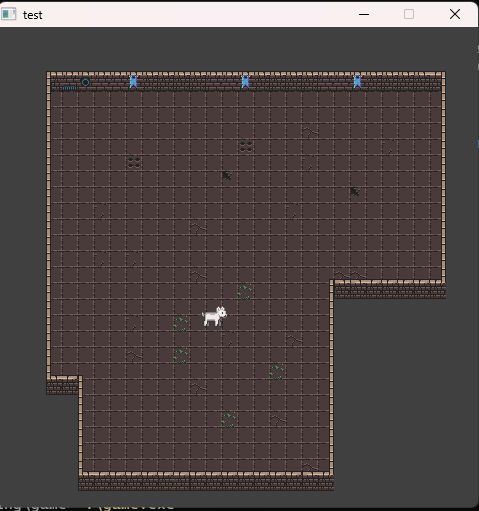
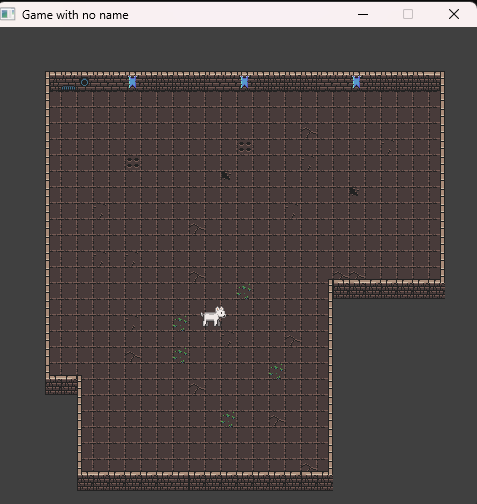
update the screanshot

diff --git a/main.c b/main.c
@@ -25,7 +25,7 @@ int WinMain()
 
 
     RenderW window;
-    RenderWindow("test",SCREEN_WIDTH,SCREEN_HEIGHT,&window);
+    RenderWindow("Game with no name",SCREEN_WIDTH,SCREEN_HEIGHT,&window);
     SDL_Texture* playerTextures[4]={loadtexture("assets/gfx/run.png",&window),loadtexture("assets/gfx/runUP.png",&window),loadtexture("assets/gfx/rundown.png",&window),loadtexture("assets/gfx/map.png",&window)};
     SDL_Texture* playerTexture=loadtexture("assets/gfx/run.png",&window);
     SDL_Texture* playerTextureUP=loadtexture("assets/gfx/runUP.png",&window);
